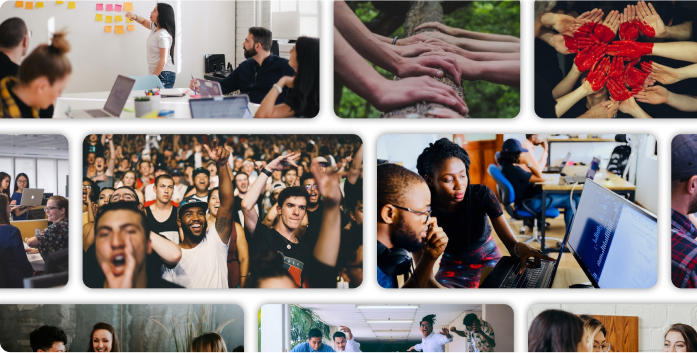
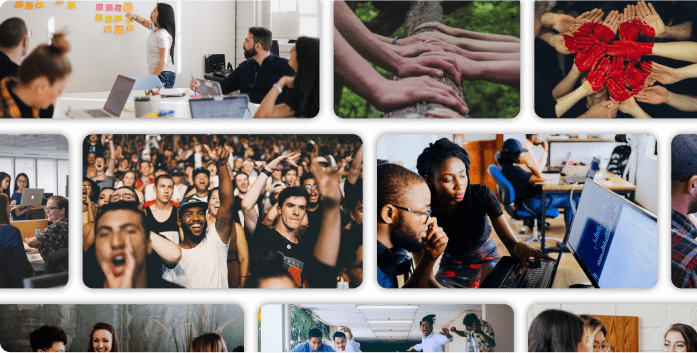
compressed assets

diff --git a/src/styles/CustomerSection.css b/src/styles/CustomerSection.css
@@ -3,7 +3,7 @@
 }
 
 .customer-section__content {
-	background: url(@/assets/customer-bg.png) top center no-repeat;
+	background: url(@/assets/customer-bg.svg) top center no-repeat;
 	background-size: cover;
 	height: 800px;
 	position: relative;

diff --git a/src/styles/Banner.css b/src/styles/Banner.css
@@ -1,6 +1,6 @@
 .banner {
 	height: calc(100vh - 40px);
-	background: url(@/assets/banner.png) center bottom no-repeat;
+	background: url(@/assets/banner.svg) center bottom no-repeat;
 	background-size: cover;
 	position: relative;
 }
